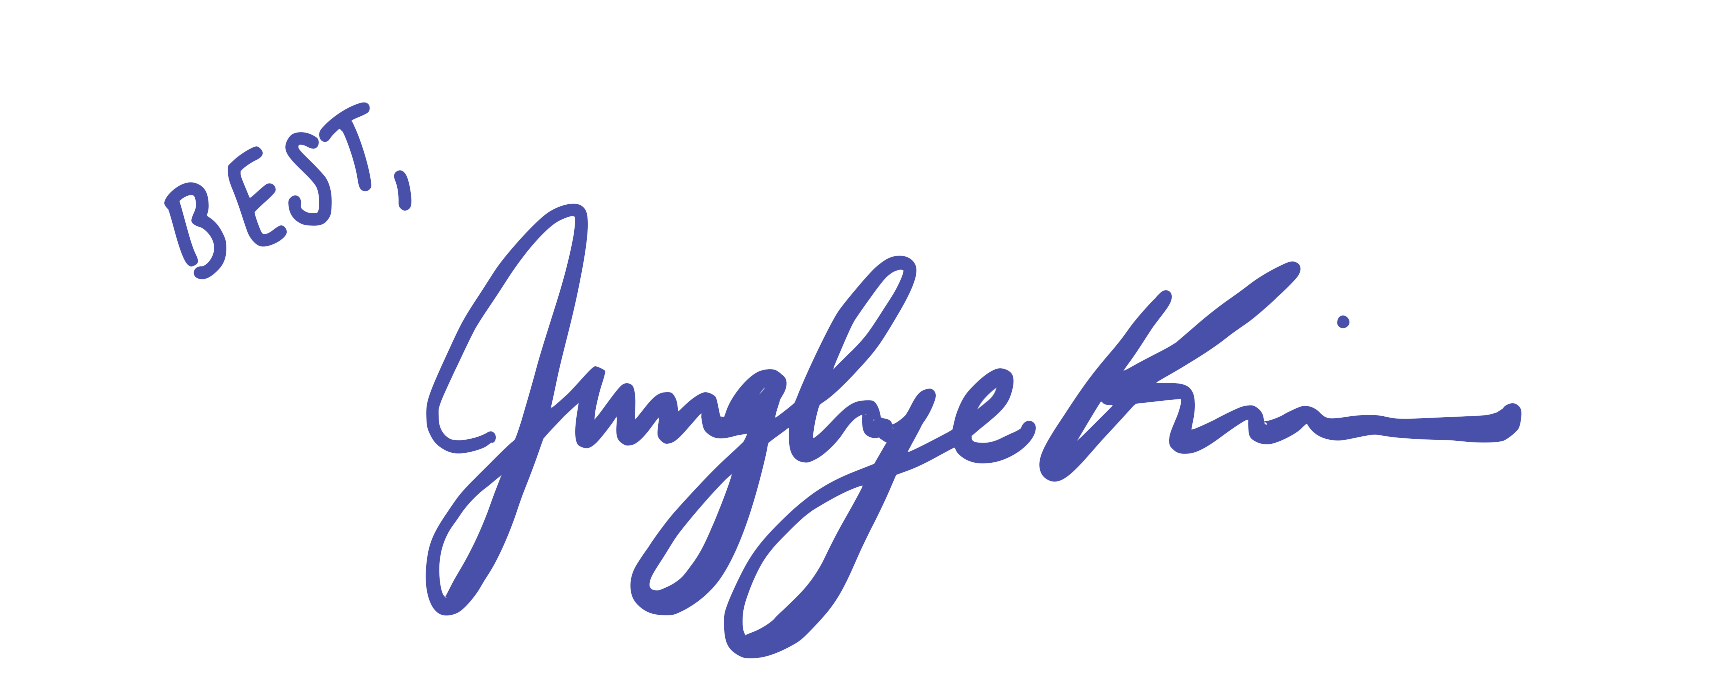
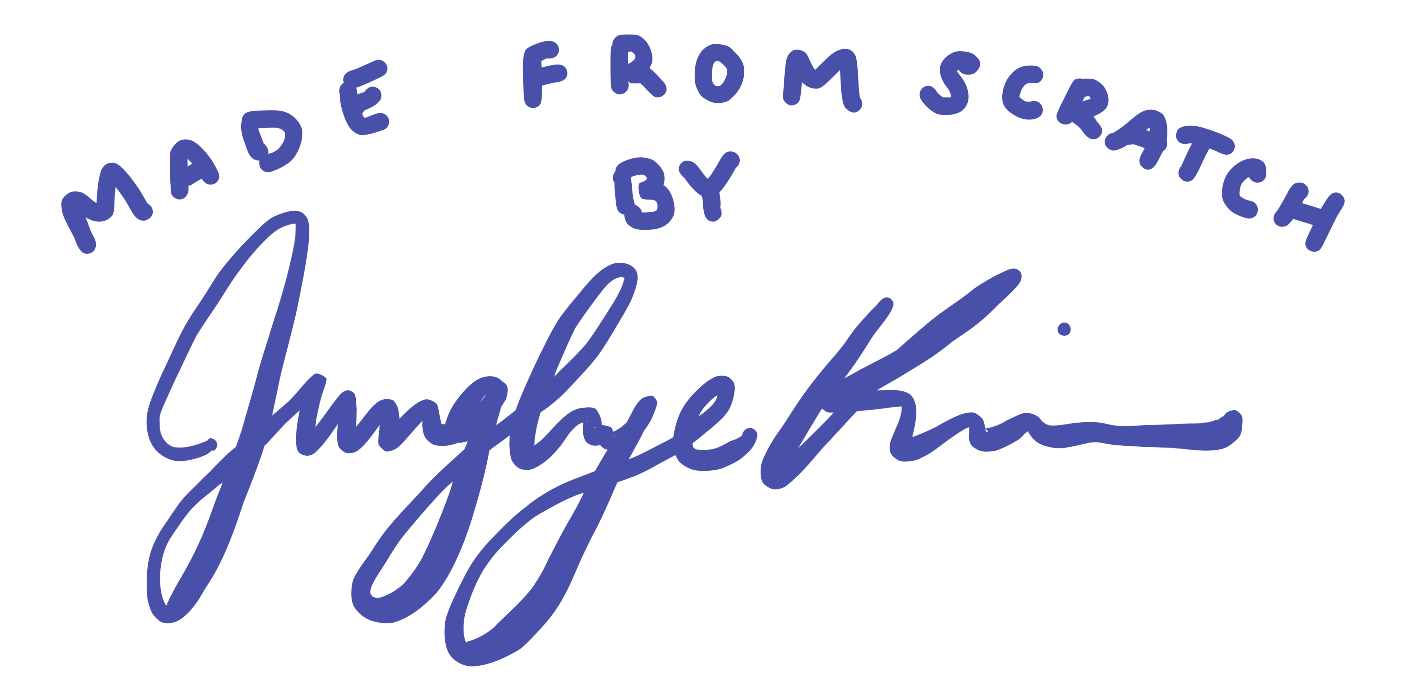
Add captions, signature, paper

diff --git a/index.html b/index.html
@@ -31,7 +31,9 @@
         <img src="korean_flag.png" alt="Korean flag" class="flag">
         <img src="click_me.png" alt="Click me icon" class="click">
         <div class="nyhan">
-          <p class="desc">PLACEHOLDER NYHAN PROJECT</p>
+          <h3>Working Paper: Context and Credibility on Social Media:Platform and News Feed Spillover Effects on Perceived Information Credibility and Engagement Behavior</h3>
+          <p class="desc">
+          This paper is the culmination of a term long class titled Experiments in Politics. As a class, we synthesized academic research on the topic, developed an experiment to test the effects of fake news on other news within a newsfeed, put the experiment into the field, collected results, analyzed those results, and presented them in this paper intended for publication. </p>
         </div>
         <a target="_blank" href="Lab 3 Final.png"><img src="Lab 3 Final.png" alt="Data Visualization Lab" class="DataViz1"></a>
         <a target="_blank" href="QSS82 Poster.jpg"><img src="QSS82 Poster.jpg" alt="Culminating Project Poster" class="QSS82"></a>
@@ -40,6 +42,9 @@
         <a target="_blank" href="wiid_dens.png"><img src="wiid_dens.png" alt="WIID Score Density Plot" class="DataViz4"></a>
         <a target="_blank" href="australia.png"><img src="australia.png" alt="Australia plot" class="DataViz5"></a>
 
+        <div class="caption">
+          <p class="desc">The above data visualizations were made using the dplyr, rvest, and ggplot packages in R. Each dataset was gathered, cleaned, summarized, and created into a visualization by me. Code for these visualizations can be found @ <a href="https://github.com/junghye-kim">my GitHub</a></p>
+        </div>
         <div class="other_ed">
           <p class="desc"> Beyond the classroom, I have conducted research in both the government and economics departments studying topics such as electoral engagement in college students to African migration patterns. I also spent over 3 years as a Learning Fellow for Dartmouth’s Intro Calculus course. During this time, I worked with students in and out of the classroom to help them with course material and participated in weekly meetings to help professors identify what the students were struggling with. This experience has been integral in my work as a data analyst as it taught me how to effectively communicate complex, quantitative concepts to a range of audiences as well as the importance of tailoring your explanation to meet the audience where they are with their expertise. </p>
         </div>

diff --git a/away_style.css b/away_style.css
@@ -252,14 +252,13 @@ img.click{
 }
 
 .nyhan{
-  width: 50%;
+  width: 60%;
   height: auto;
-  padding: 10px;
-  margin: 5px;
+  text-align: center;
   white-space: normal;
   position: absolute;
-  top: 15%;
-  left:300%;
+  top: -20%;
+  left:295%;
   border:2px solid #395797;
 }
 
@@ -284,6 +283,7 @@ img.click{
   position: absolute;
   top: 10%;
   left:430%;
+  background-color: #EEEDE7;
 }
 
 .logo_270{
@@ -311,6 +311,7 @@ img.click{
   color: #395797;
   font-size: 14px;
   line-height: 1.8;
+  background-color: #EEEDE7;
 }
 
 .glossier{
@@ -322,6 +323,7 @@ img.click{
   position: absolute;
   top: 10%;
   left:560%;
+  background-color: #EEEDE7;
 }
 
 .logo_glossier{
@@ -341,6 +343,7 @@ img.click{
   top: 10%;
   left:680%;
 
+
 }
 .logo_away{
   width: 35%;
@@ -351,9 +354,28 @@ img.click{
 }
 
 img.signature{
-  width: 45%;
+  width: 25%;
   height: auto;
   position: absolute;
-  top: -4%;
-  left:802%;
+  top: 5%;
+  left:814%;
+}
+
+.caption{
+  width: 140%;
+  height: auto;
+  padding: 2px;
+  white-space: normal;
+  position: absolute;
+  top: 120%;
+  left:140%;
+  background-color: #EEEDE7;
+}
+
+h3{
+  font-weight: 500;
+  color: #395797;
+  font-family: 'Lora', serif;
+  font-size: 16px;
+
 }
